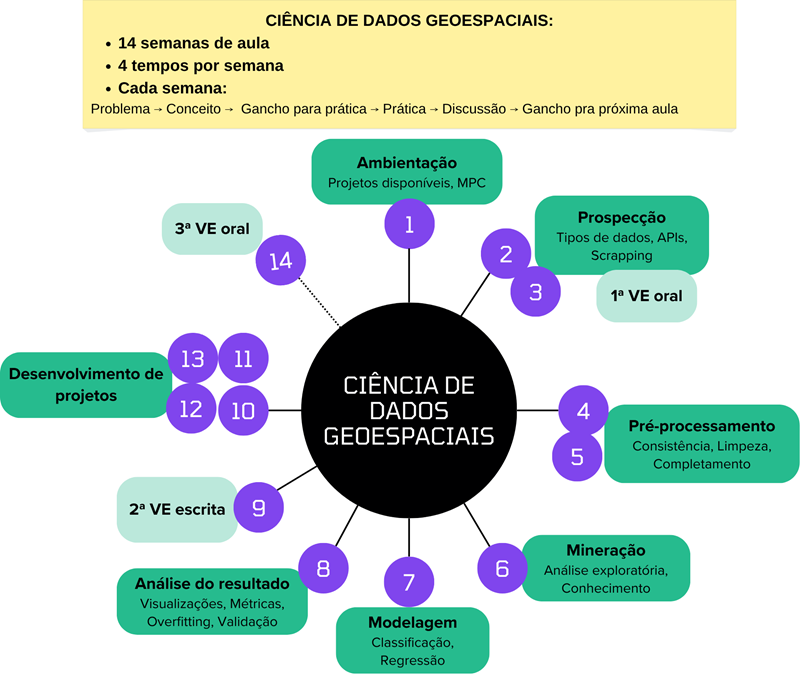
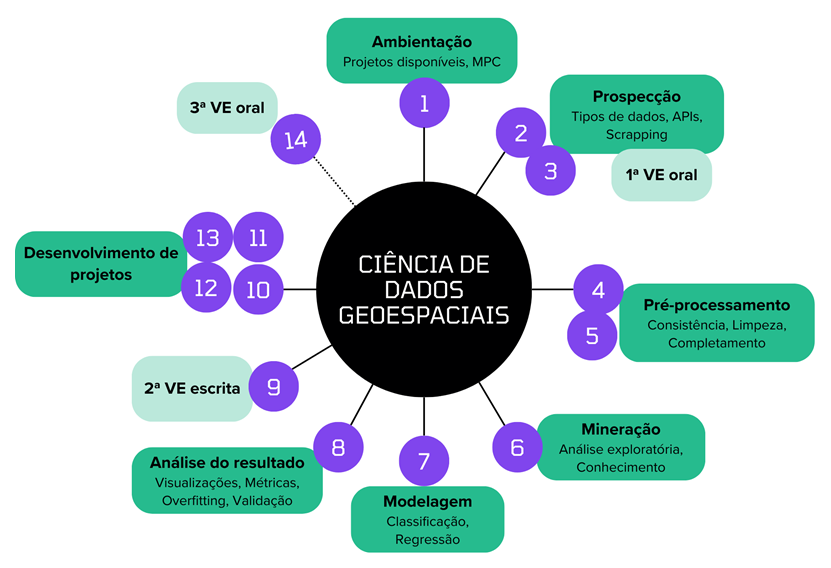
aula update

diff --git a/Readme.md b/Readme.md
@@ -8,9 +8,10 @@ VISÃO GERAL DA DISCIPLINA:
 
 SUMÁRIO:
 
-- [Prospecção de dados](https://github.com/HumbertoDiego/cdg-ime/blob/main/Prospec%C3%A7%C3%A3o.ipynb)
-- [Pré Processamento](https://github.com/HumbertoDiego/cdg-ime/blob/main/PreProcessamento.ipynb)
-- [Mineração](https://github.com/HumbertoDiego/cdg-ime/blob/main/Minera%C3%A7%C3%A3o.ipynb)
+- [Ambientação](https://github.com/HumbertoDiego/cdg-ime/blob/main/01_Ambientação.ipynb): Projetos disponíveis.
+- [Prospecção de dados](https://github.com/HumbertoDiego/cdg-ime/blob/main/02_Prospec%C3%A7%C3%A3o.ipynb): O que é ciência de dados geoespaciais, tipos de dados, dados vetoriais, dados raster, SRC/CRS, datasets públicos, APIs, OGC, STAC, web scraping, pesquisa acadêmica.
+- [Pré-processamento](https://github.com/HumbertoDiego/cdg-ime/blob/main/03_PreProcessamento.ipynb): Qualidade de dados, completude, consistência, validade, padronização, validação geométrica, metadados raster, NoData, reamostragem, outliers, completamento, normalização.
+- [Mineração](https://github.com/HumbertoDiego/cdg-ime/blob/main/04_Minera%C3%A7%C3%A3o.ipynb): Análise exploratória, estatísticas descritivas, MVC, PCA, correlação, Pearson, Spearman, gráficos, mapas coropléticos, atributos geoespaciais, Índice de Moran, clusterização, K-médias, DBSCAN, introdução a classificação e regressão.
 
 REQUISITOS:
 
@@ -41,7 +42,7 @@ DICAS PARA GERENCIAR MÚLTIPLAS VERSÕES PYTHON:
 > $Env:PYTHON_MANAGER_DEFAULT = "3.12" # Altera a versão para esta seção de terminal apenas
 > python --version # Python 3.12.10 --> Daqui pode-se criar o ambiente
 ```
-- Após criar o ambiente verifique se está usando uma cópia do python3.12 da pasta .venv:
+- Após criar o ambiente, verifique se está usando uma cópia do Python 3.12 da pasta `.venv`:
 ```powershell
 > python -c "import sys; print(sys.executable)" # C:\Users\...\Python\pythoncore-3.12-64\python.exe
 > python -m venv .venv